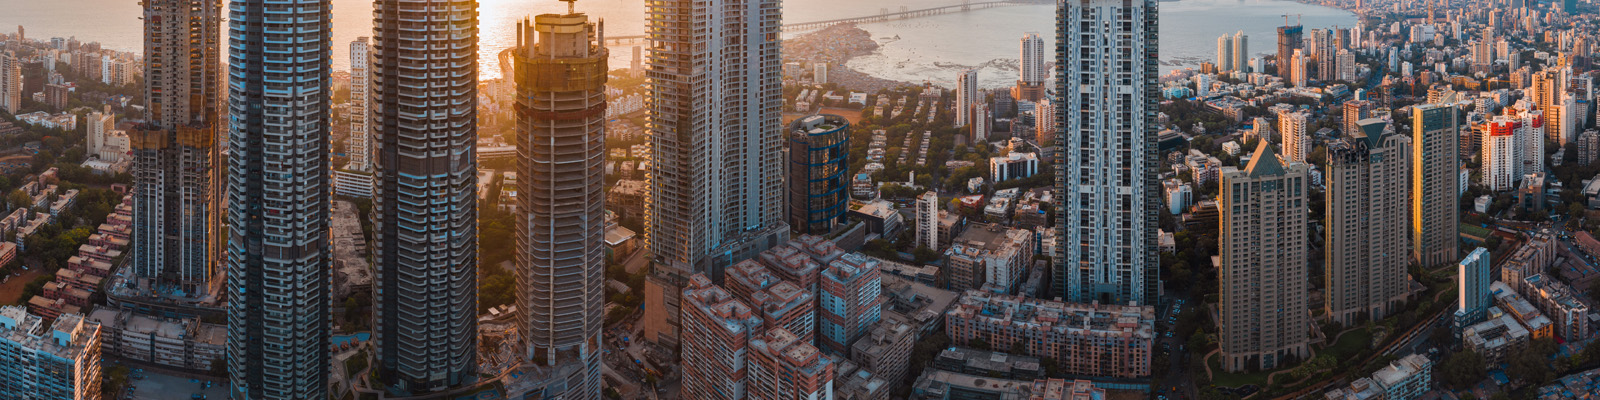
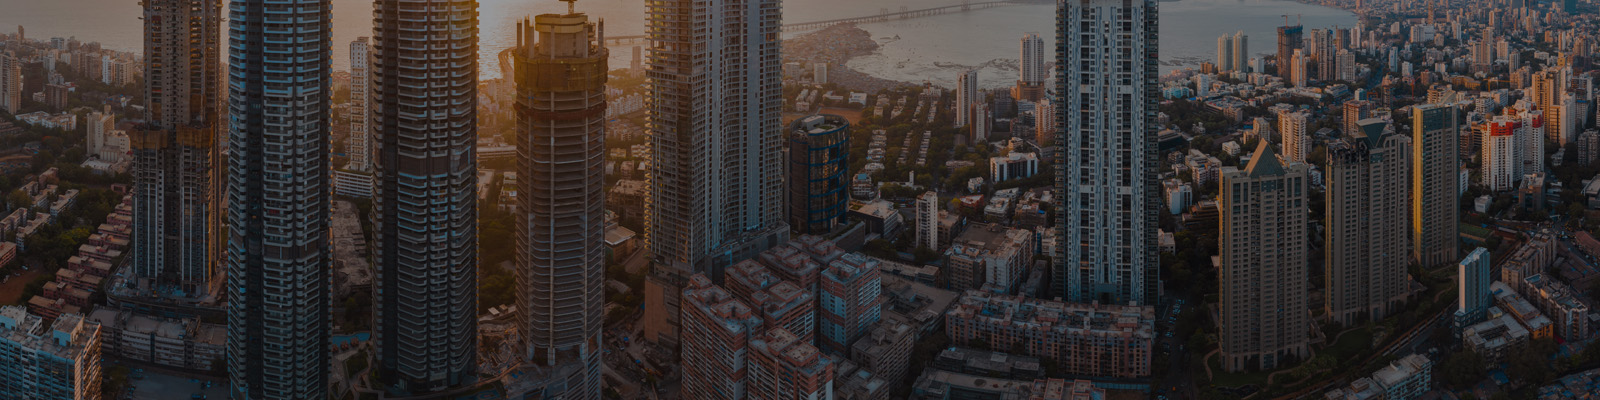
Bg added on about contact and project page

diff --git a/assets/css/style.css b/assets/css/style.css
@@ -2406,7 +2406,7 @@ label {
 
 .breadcrumb-area {
   padding: 100px 0px;
-  background: var(--tg-gradient-color);
+  /* background: var(--tg-gradient-color); */
   background-size: cover;
   background-repeat: no-repeat;
   background-position: center;
@@ -2415,6 +2415,14 @@ label {
 
 #About-section{
   background-image: url("../img/bg/about-page.jpg") !important;
+}
+
+#Project_section{
+  background-image: url("../img/bg/project-page.jpg") !important;
+}
+
+#Contact-section{
+  background-image: url("../img/bg/contact-page.jpg") !important;
 }
 
 .breadcrumb-content {
@@ -2426,6 +2434,7 @@ label {
   text-transform: uppercase;
   margin-bottom: 8px;
   line-height: 1.3;
+  color: var(--tg-white);
 }
 
 .breadcrumb-content .breadcrumb {
@@ -2438,18 +2447,18 @@ label {
   font-size: 14px;
   letter-spacing: 0.04em;
   text-transform: uppercase;
-  color: var(--tg-body-font-color);
+  color: var(--tg-white);
   line-height: 1.42;
 }
 
 .breadcrumb-content .breadcrumb .breadcrumb-item a {
-  color: var(--tg-secondary-color);
+  color:white;
 }
 
 .breadcrumb-item + .breadcrumb-item::before {
   float: left;
   padding-right: 10px;
-  color: var(--tg-secondary-color);
+  color: white;
   content: "\f105";
   font-family: "Font Awesome 5 Free";
   font-weight: 700;

diff --git a/contact.html b/contact.html
@@ -189,7 +189,7 @@
       <!-- main-area -->
       <main>
         <!-- breadcrumb-area -->
-        <section class="breadcrumb-area">
+        <section id="Contact-section" class="breadcrumb-area">
           <div class="container">
             <div class="row">
               <div class="col-lg-12">

diff --git a/projects.html b/projects.html
@@ -189,7 +189,7 @@
       <!-- main-area -->
       <main>
         <!-- breadcrumb-area -->
-        <section class="breadcrumb-area">
+        <section id="Project_section" class="breadcrumb-area">
           <div class="container">
             <div class="row">
               <div class="col-lg-12">

diff --git a/assets/css/responsive.css b/assets/css/responsive.css
@@ -149,7 +149,7 @@
 	margin-left: 0px;
 }
 .breadcrumb-area {
-	padding: 180px 0 130px;
+	padding: 100px 0px;
 }
 .faq-wrap {
 	padding: 0 85px 120px;
